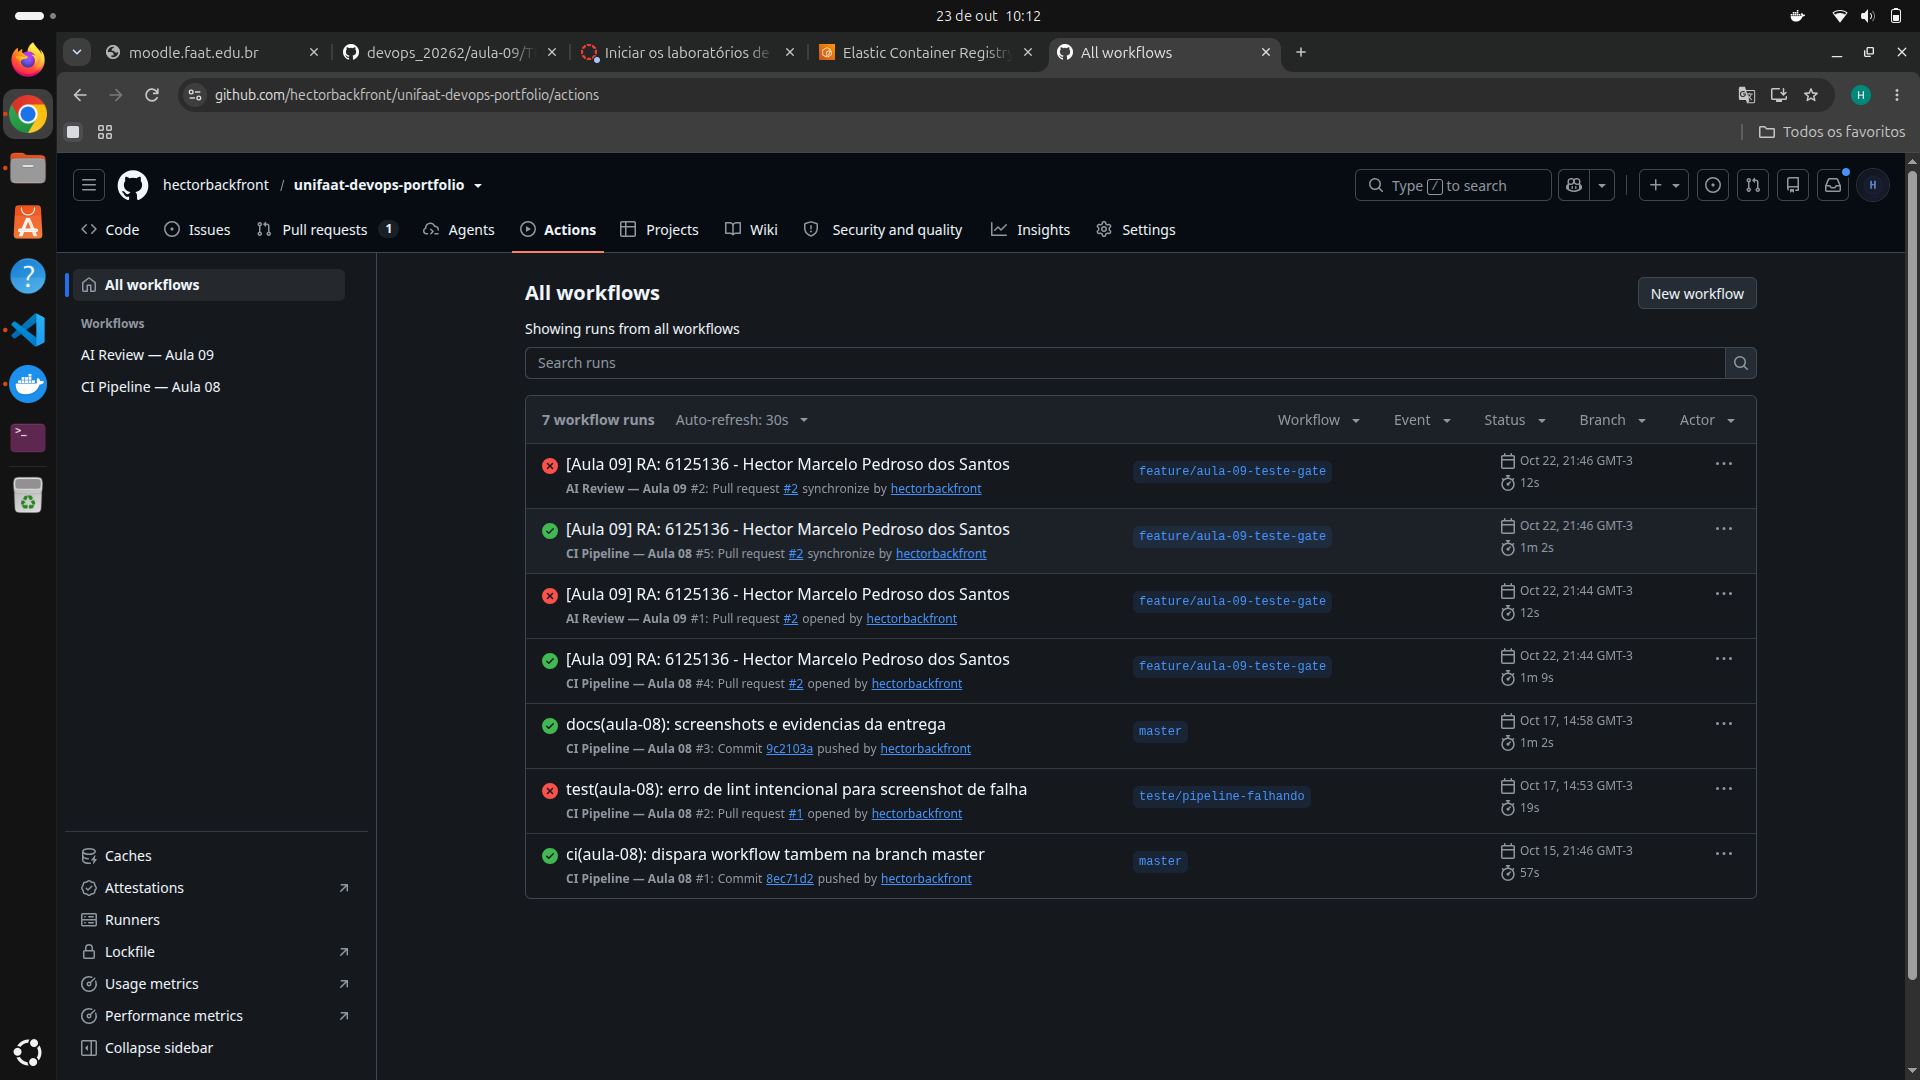
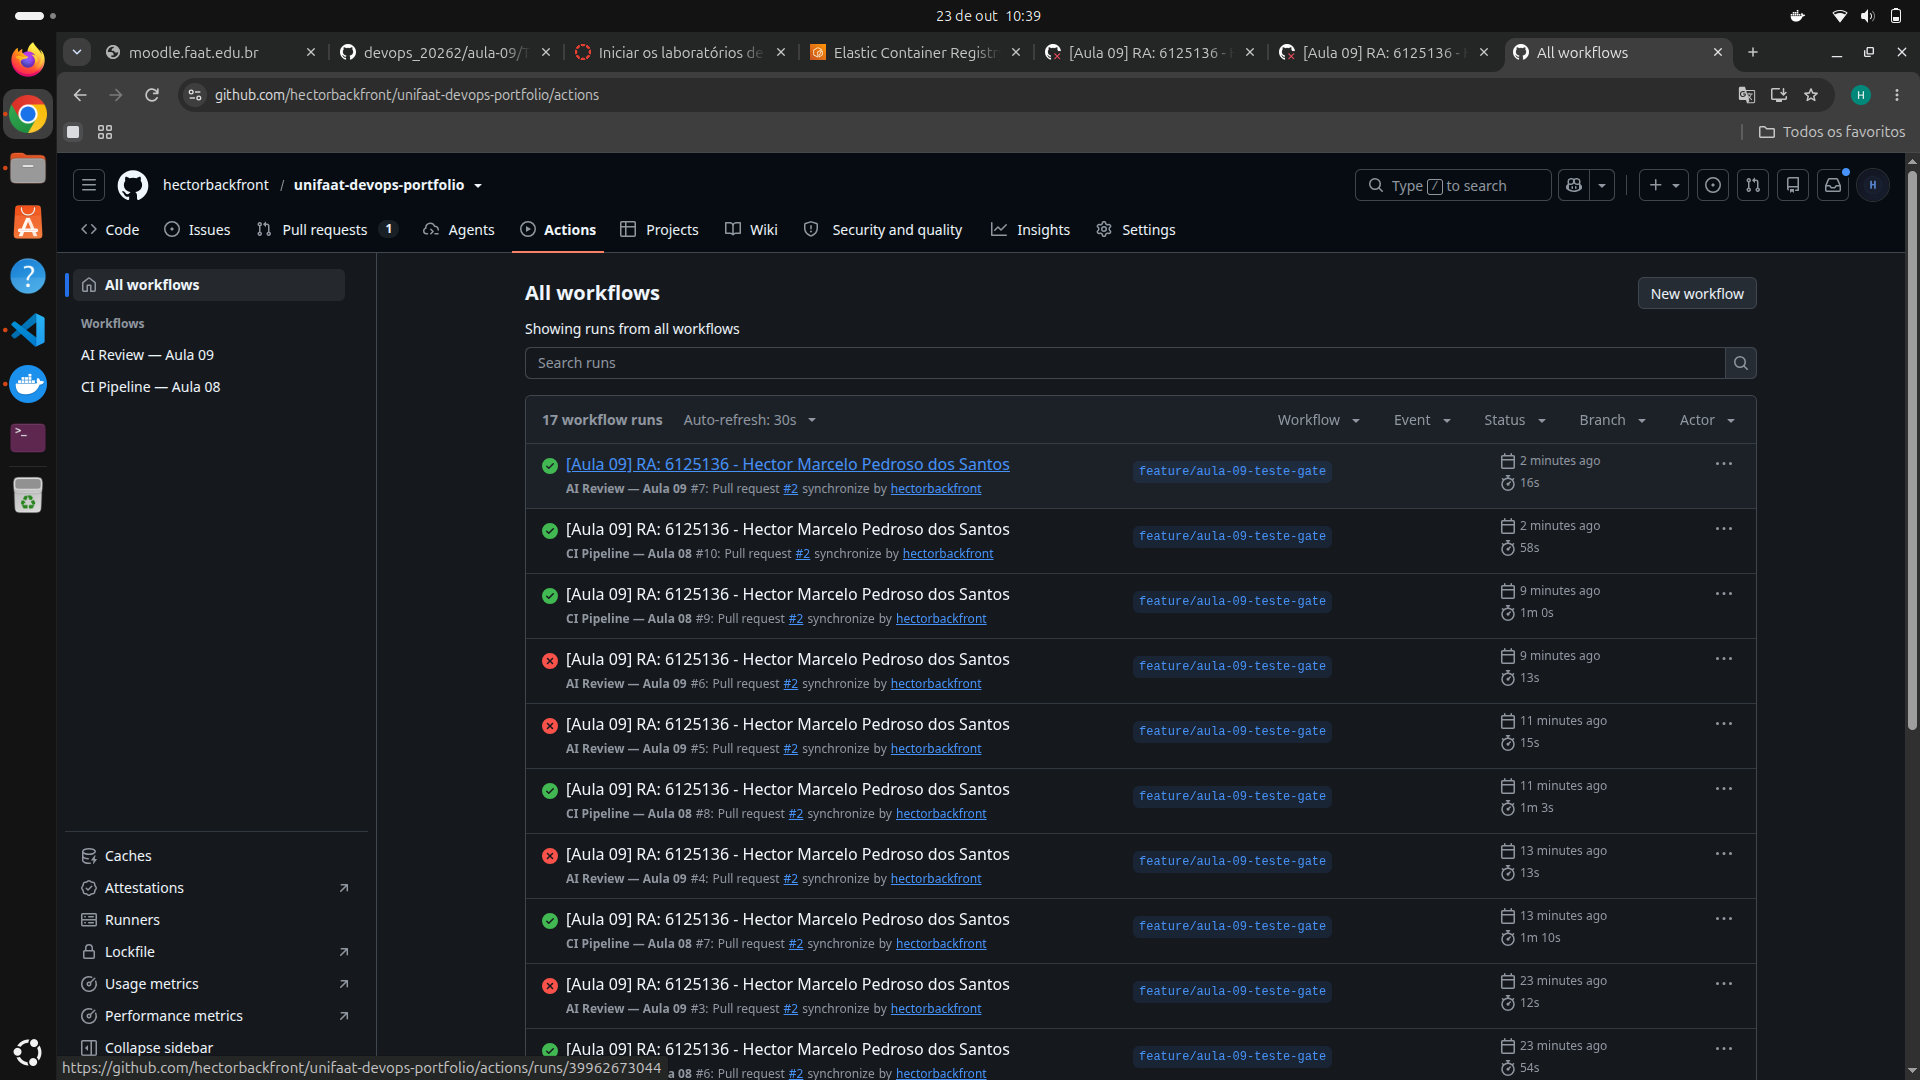
docs(aula-09): evidencia do ciclo bloqueio e liberacao do gate

diff --git a/aula-09/entrega.md b/aula-09/entrega.md
@@ -24,11 +24,15 @@ Não feito: `ci.yml` com push automático ao ECR, badge, workflow de segurança 
 
 ## Evidência do Pipeline Rodando
 
-- PR de demonstração do gate (aberto de propósito, sem merge; contém `demo-gate.js` inseguro): https://github.com/hectorbackfront/unifaat-devops-portfolio/pull/2
-- Execução do AI Review (falhou por CRITICAL): https://github.com/hectorbackfront/unifaat-devops-portfolio/actions/runs/39880155109
+- PR de demonstração do quality gate: https://github.com/hectorbackfront/unifaat-devops-portfolio/pull/2
+- Execução do AI Review que **bloqueou** o PR (CRITICAL): https://github.com/hectorbackfront/unifaat-devops-portfolio/actions/runs/39880155109
+- Execução do AI Review que **liberou** o PR após a correção (check verde): https://github.com/hectorbackfront/unifaat-devops-portfolio/actions/runs/39962673044
 - Aba Actions: https://github.com/hectorbackfront/unifaat-devops-portfolio/actions
 
-Resultado no PR #2: 3 CRITICAL (secret hardcoded, `eval()`, SQL injection) e 3 WARNING; check vermelho e comentário atualizado a cada push.
+Ciclo no PR #2:
+1. PR aberto com um arquivo inseguro de propósito (`demo-gate.js`): **3 CRITICAL** (secret hardcoded, `eval()`, SQL injection) e 3 WARNING; check vermelho, PR bloqueado.
+2. Remoção do arquivo: check **verde** (0 CRITICAL, 1 WARNING), pois WARNING não bloqueia.
+3. Nos dois casos o comentário do bot foi **atualizado**, não duplicado.
 
 Tags publicadas na mesma imagem: `sha-d7ed469`, `latest`, `1.0.0`, `1.0`, `1`.
 

diff --git a/aula-09/README.md b/aula-09/README.md
@@ -44,7 +44,6 @@ aula-09/
 ├── .dockerignore
 ├── ecr-push.sh
 ├── lifecycle-policy.json
-├── demo-gate.js               # código inseguro de propósito (demonstração do gate)
 ├── server.js, package*.json   # TechNova API (da aula 08)
 ├── ia-cicd-analise.md
 ├── entrega.md
